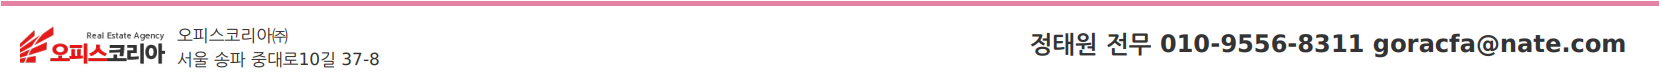
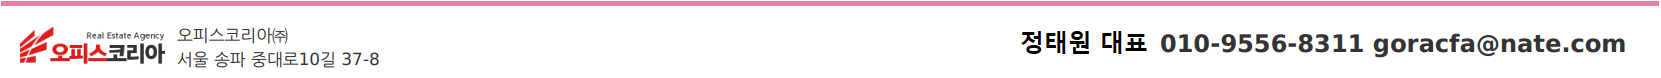
update

Changed region(s): [[0.6141, 0.3846, 0.7062, 0.7179]]

diff --git a/src/services/report.service.ts b/src/services/report.service.ts
@@ -1212,7 +1212,7 @@ class PPTBuilder {
       line: { color: this.COLOR_YELLOW, width: 1 },
     });
 
-    await slide.addText("정태원 전무", {
+    await slide.addText("정태원 대표", {
       x: 2.25,
       y: 6.75,
       fontSize: 9,
